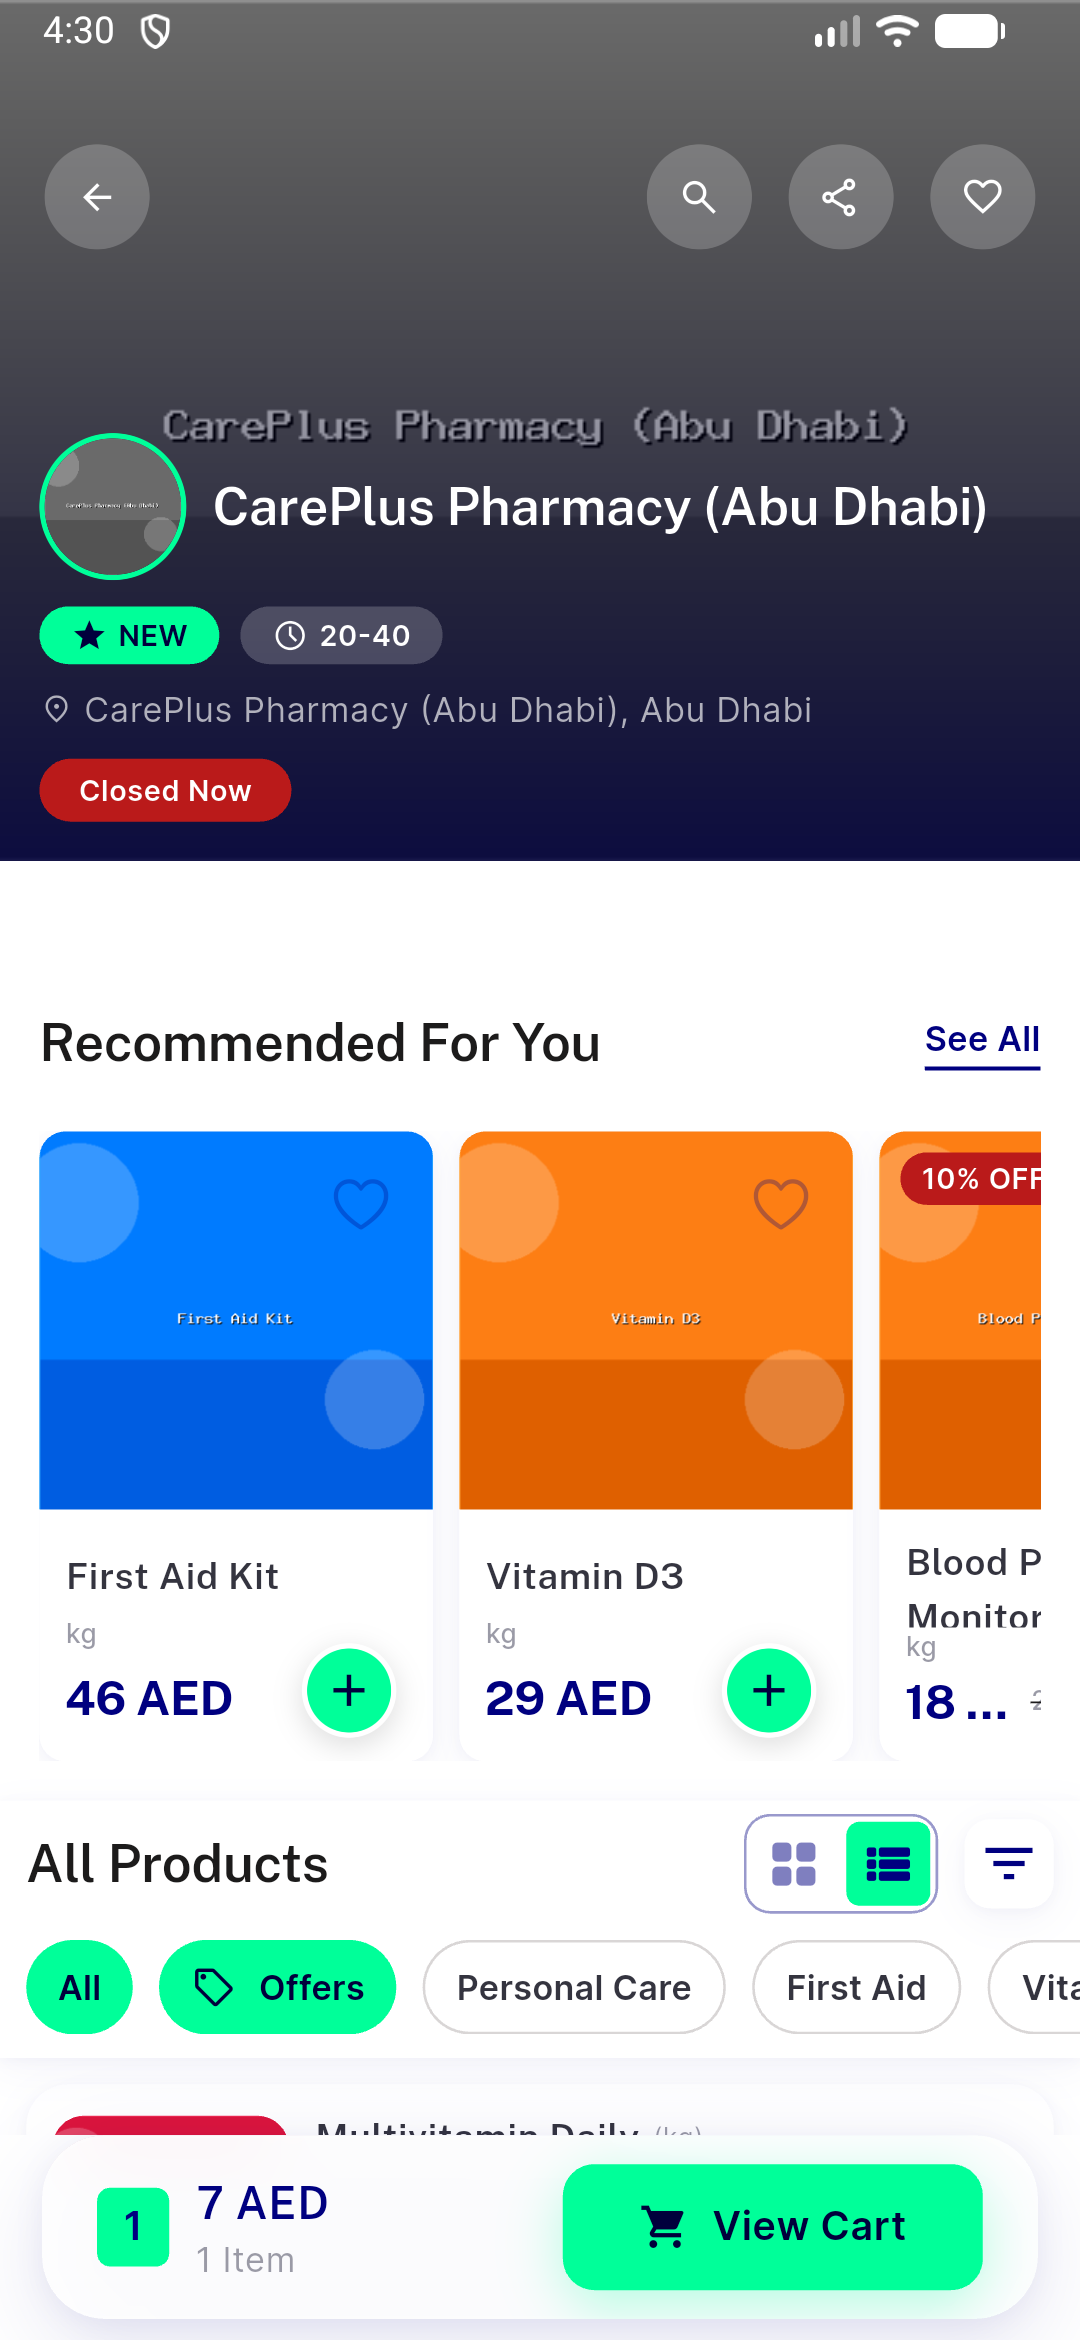
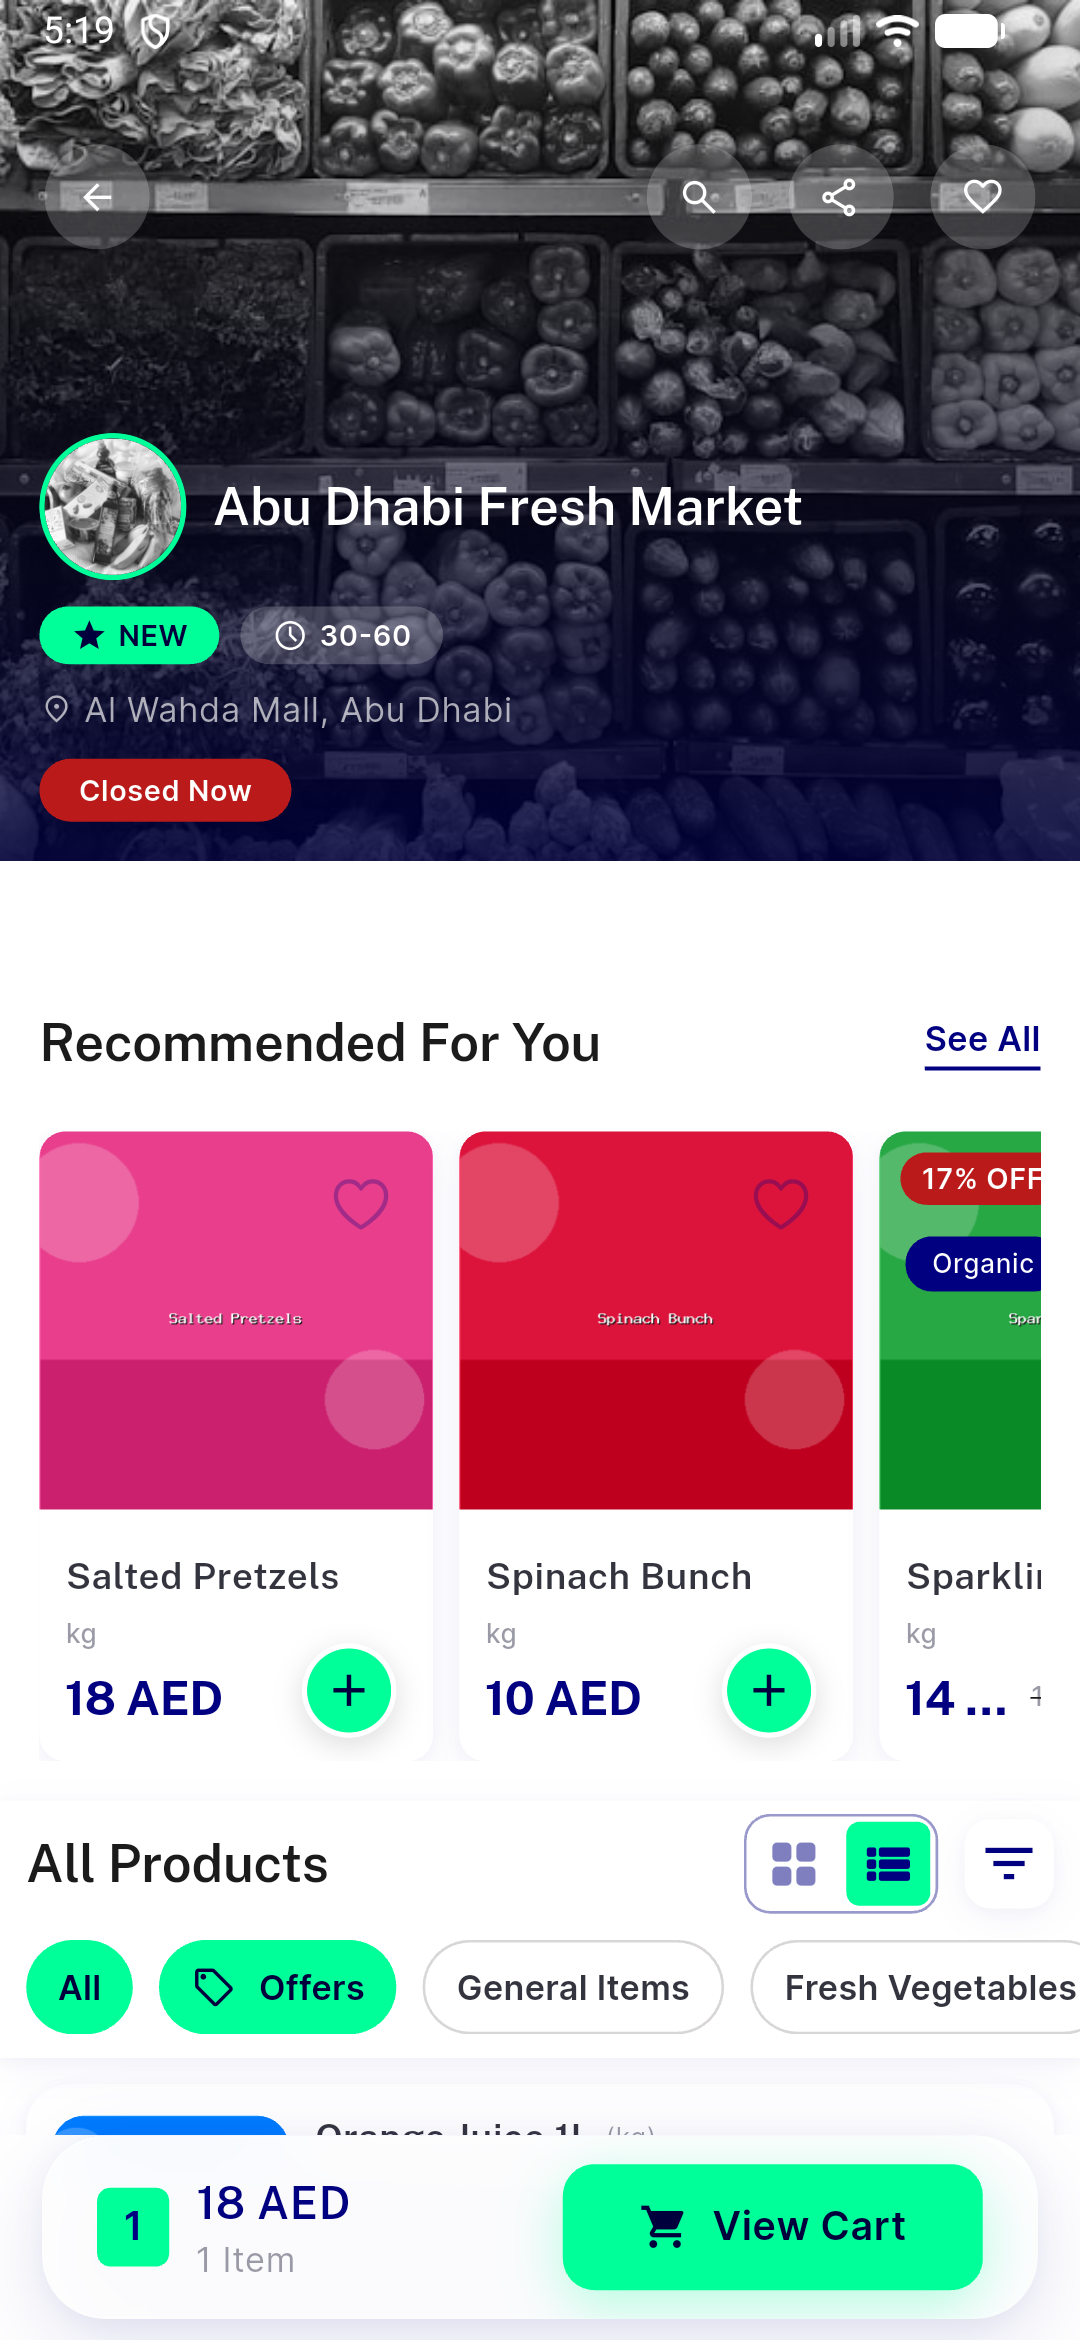
NEARS-963: publish QA evidence (14 shots)

diff --git a/NEARS-963/README.md b/NEARS-963/README.md
@@ -1,19 +1,24 @@
 # QA Evidence — NEARS-963
 
-**FAIL — a11y labels absent live on rating stars (AC4) + map zoom (AC3); toggle/verified/carousel pass**
+**re-QA cycle 1 FAIL — AC3 map-zoom + AC4 rating-stars still unlabeled on-device despite MergeSemantics; AC5/AC9 PASS**
 
-**10 screenshot(s).** Click any thumbnail for full resolution.
+**14 screenshot(s).** Click any thumbnail for full resolution.
 
 <table>
 <tr>
+<td align="center" width="33%"><a href="ac4-search-stars-after-tap3.png"><img src="ac4-search-stars-after-tap3.png" width="240"></a><br><sub>ac4 search stars after tap3</sub></td>
+<td align="center" width="33%"><a href="ac4-store-filter-stars-empty.png"><img src="ac4-store-filter-stars-empty.png" width="240"></a><br><sub>ac4 store filter stars empty</sub></td>
 <td align="center" width="33%"><a href="ac4-store-stars-after-tap3.png"><img src="ac4-store-stars-after-tap3.png" width="240"></a><br><sub>ac4 store stars after tap3</sub></td>
-<td align="center" width="33%"><a href="ac5-store-toggle-list-active.png"><img src="ac5-store-toggle-list-active.png" width="240"></a><br><sub>ac5 store toggle list active</sub></td>
-<td align="center" width="33%"><a href="ac5-store-toggle.png"><img src="ac5-store-toggle.png" width="240"></a><br><sub>ac5 store toggle</sub></td>
 </tr>
 <tr>
+<td align="center" width="33%"><a href="ac5-store-toggle-list-active.png"><img src="ac5-store-toggle-list-active.png" width="240"></a><br><sub>ac5 store toggle list active</sub></td>
+<td align="center" width="33%"><a href="ac5-store-toggle.png"><img src="ac5-store-toggle.png" width="240"></a><br><sub>ac5 store toggle</sub></td>
 <td align="center" width="33%"><a href="ac7-home-carousel-dots.png"><img src="ac7-home-carousel-dots.png" width="240"></a><br><sub>ac7 home carousel dots</sub></td>
+</tr>
+<tr>
 <td align="center" width="33%"><a href="ac7-home-landing-after-swipe.png"><img src="ac7-home-landing-after-swipe.png" width="240"></a><br><sub>ac7 home landing after swipe</sub></td>
 <td align="center" width="33%"><a href="ac7-home-landing-before.png"><img src="ac7-home-landing-before.png" width="240"></a><br><sub>ac7 home landing before</sub></td>
+<td align="center" width="33%"><a href="ac9-verified-badge-pass.png"><img src="ac9-verified-badge-pass.png" width="240"></a><br><sub>ac9 verified badge pass</sub></td>
 </tr>
 <tr>
 <td align="center" width="33%"><a href="ac9-verified-badge.png"><img src="ac9-verified-badge.png" width="240"></a><br><sub>ac9 verified badge</sub></td>
@@ -21,13 +26,18 @@
 <td align="center" width="33%"><a href="bug-rating-stars-no-label-search-filter.png"><img src="bug-rating-stars-no-label-search-filter.png" width="240"></a><br><sub>bug rating stars no label search filter</sub></td>
 </tr>
 <tr>
+<td align="center" width="33%"><a href="bug-rating-stars-search-filter-empty.png"><img src="bug-rating-stars-search-filter-empty.png" width="240"></a><br><sub>bug rating stars search filter empty</sub></td>
 <td align="center" width="33%"><a href="bug-rating-stars-store-filter-before.png"><img src="bug-rating-stars-store-filter-before.png" width="240"></a><br><sub>bug rating stars store filter before</sub></td>
 </tr>
 </table>
 
 ### Other artifacts
+- [`bug-ac3-map-zoom-still-empty-cycle1.log`](bug-ac3-map-zoom-still-empty-cycle1.log)
+- [`bug-ac4-rating-stars-still-empty-cycle1.log`](bug-ac4-rating-stars-still-empty-cycle1.log)
+- [`bug-item-widget-overflow-2px.log`](bug-item-widget-overflow-2px.log)
 - [`bug-map-zoom-no-label.log`](bug-map-zoom-no-label.log)
 - [`bug-rating-stars-no-label.log`](bug-rating-stars-no-label.log)
+- [`progress.md`](progress.md)
 
 ---
 *From `nears/docs/qa-evidence/NEARS-963/` · public-repo scrub policy (no live secrets; verified clean).*

diff --git a/NEARS-963/progress.md b/NEARS-963/progress.md
@@ -1,0 +1,28 @@
+# NEARS-963 re-QA cycle 1 — progress checkpoint (a11y tail, UserApp)
+
+Build: worktree fix/NEARS-963-a11y-tail (uncommitted MergeSemantics fix), fresh `flutter run`.
+Device: emulator-5560 (AVD nears_qa_wave56). Verdict: **FAIL** (AC3 + AC4 not announced on-device).
+Method: uiautomator dump = the Android AccessibilityNodeInfo tree TalkBack reads (confirmed
+identical content-desc with TalkBack ON and OFF; home-screen labels prove the read is valid).
+
+Build-freshness PROOF: AC5 toggle renders NEW labels "Grid view"/"List view" (added by this exact
+uncommitted fix) live on-device -> the running build contains the fix. So AC3/AC4 empty labels are
+the fix genuinely failing, not a stale build.
+
+| AC | status | evidence |
+|----|--------|----------|
+| AC3 map zoom | FAIL | zoom +/- Buttons content-desc='' (TalkBack on & off); bug-ac3-map-zoom-still-empty-cycle1.log |
+| AC4 search stars | FAIL | 5 stars content-desc='' [53..473,2007]; bug-ac4-rating-stars-still-empty-cycle1.log |
+| AC4 store stars | FAIL | 5 stars content-desc='' [53..473,2001]; ac4-store-filter-stars-empty.png |
+| AC5 grid/list toggle | PASS | "Grid view"(sel=true)/"List view"; tap flips sel; ac5-store-toggle-list-active.png |
+| AC9 verified badge | PASS | content-desc="Verified" ImageView; ac9-verified-badge-pass.png |
+| AC1 halal tooltip | not-live-triggerable | no halal seed item (item detail has no halal badge); same CustomToolTip MergeSemantics pattern -> structurally at-risk |
+| AC2 love swiper | not-live-triggerable | "Items you love" section not rendered on home (seed/config gap); same MergeSemantics pattern -> structurally at-risk |
+| AC6 no visual change | PASS | zoom/star/toggle bounds byte-identical to cycle 0; MergeSemantics adds no box |
+| backstop test | green (non-authoritative) | a11y_tail_of_tail_963_test.dart 8/8 pass incl. +5 star/+6 zoom — flutter_test compiler merges regardless; NOT the gate |
+
+Root cause lead: failing sites (AC3 zoom, AC4 stars) = MergeSemantics > Semantics(label,button) >
+InkWell > BARE Icon -> label AND button role dropped on-device. Passing sites (AC5/AC9/home) = plain
+Semantics with a wrapped child. MergeSemantics did not fix it; recommend the AC5 pattern.
+
+Logs: no [FAIL]/[ERR] during any AC (clean); all NET 200. Not a crash — a silent a11y gap.
